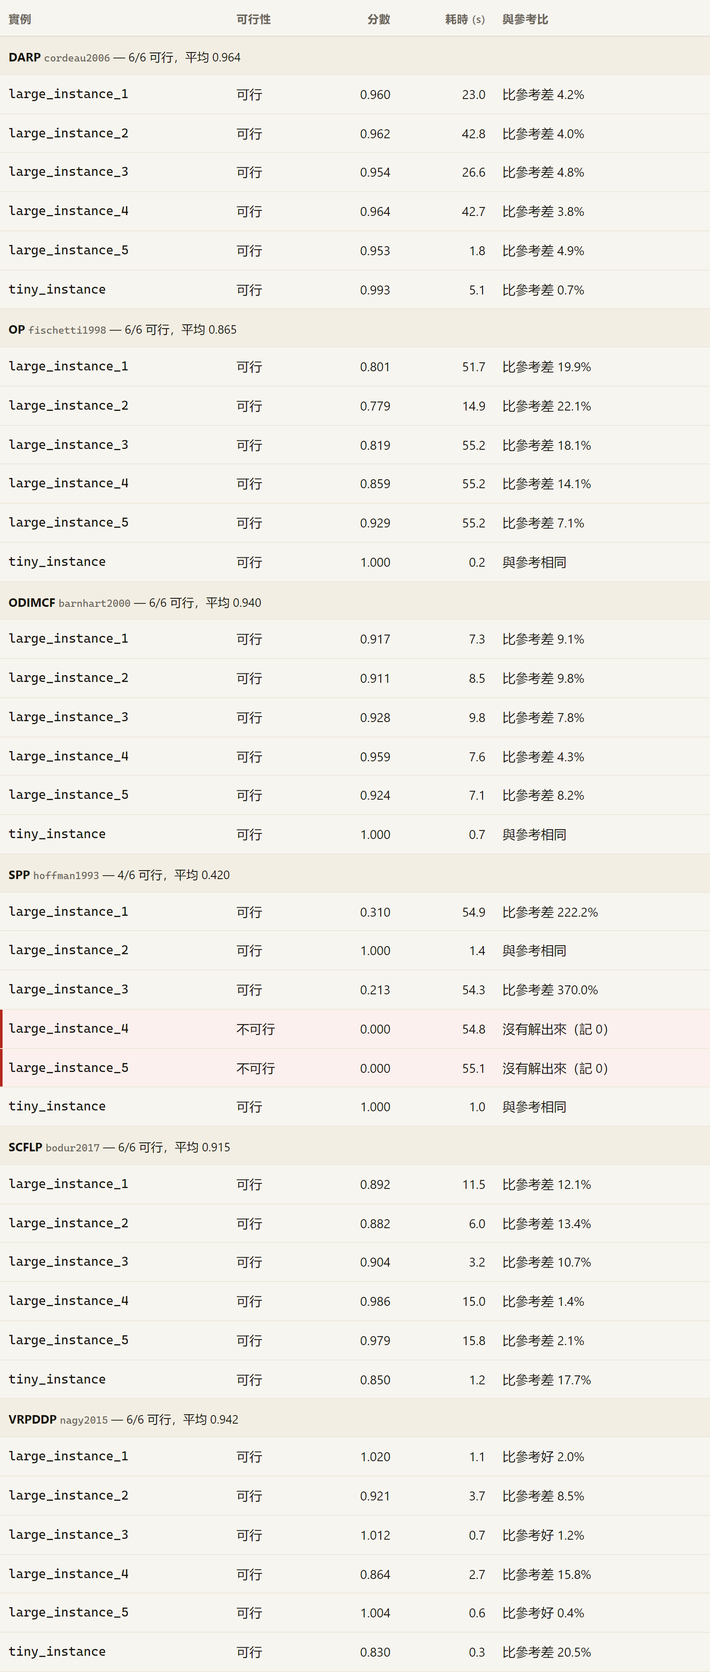
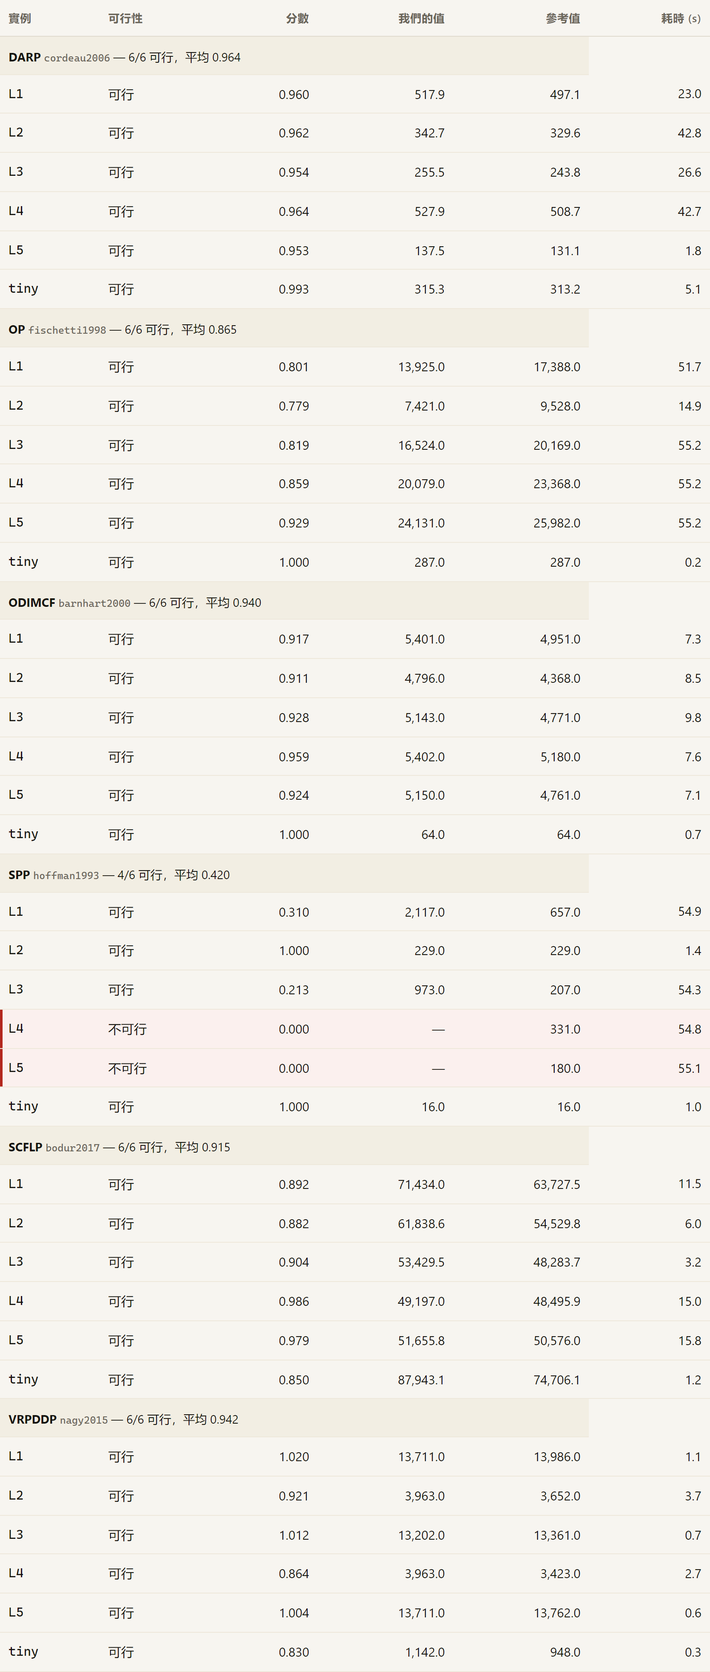
report: headline is the score, table shows raw objective values, cite the solve log
- hero: 0.841 with an 估算 tag next to it, 34/36 as the secondary fact
- chart: score bars against the 1.0 reference, slowest run beside it, * = hit the 55 s soft stop
- table: our value and the reference value are printed, so any reader can recompute the score
- docs/logs/hoffman-large_instance_4.log: the solver's own line for the two unsolved instances

diff --git a/site/index.html b/site/index.html
@@ -26,6 +26,8 @@
   .statline { display: grid; grid-template-columns: 210px 1fr; gap: 32px; align-items: start; margin-top: 24px; }
   .stat { font-size: 46px; line-height: 1.1; font-weight: 600; letter-spacing: -.02em; }
   .stat small { display: block; font-size: 14px; font-weight: 400; color: var(--muted); letter-spacing: 0; margin-top: 8px; }
+  .stat .tag { display: inline-block; font-size: 12px; font-weight: 500; color: #8a5a12;
+                background: #fbf0d8; border-radius: 3px; padding: 1px 6px; vertical-align: 12px; margin-left: 8px; }
   .ruler { background: var(--card); border: 1px solid var(--line); border-radius: 6px; padding: 16px 20px 6px; }
   .ruler svg { width: 100%; height: auto; display: block; }
   .ruler .cap { font-size: 13px; color: var(--muted); margin: 6px 0 8px; }
@@ -80,16 +82,16 @@
 
   <section class="hero">
     <div class="ruler">
-      <svg viewBox="0 0 706 222" role="img" aria-label="每題最慢一次實例的牆鐘，虛線是自設的 55 秒停止點"><line x1="630" y1="12" x2="630" y2="192" stroke="#b8b2a3" stroke-width="2"/><line x1="590.0" y1="12" x2="590.0" y2="192" stroke="#3a3730" stroke-width="1.5" stroke-dasharray="4 4"/><text x="630" y="208" text-anchor="middle" font-size="13" fill="#6b6659">60 s</text><text x="590.0" y="208" text-anchor="middle" font-size="12" fill="#3a3730">55 s</text><text x="646" y="12" font-size="11" fill="#6b6659" text-anchor="end">慢</text><text x="692" y="12" font-size="11" fill="#6b6659" text-anchor="end">平均分</text><text x="138" y="34" text-anchor="end" font-size="15" fill="#16150f">DARP</text><rect x="150" y="20" width="480" height="18" fill="#eae5d8" rx="3"/><rect x="150" y="20" width="342.8" height="18" fill="#3a3730" rx="3"/><text x="646" y="34" font-size="13" fill="#6b6659" text-anchor="end">42.8s</text><text x="692" y="34" font-size="13" fill="#16150f" text-anchor="end">0.96</text><text x="138" y="62" text-anchor="end" font-size="15" fill="#16150f">OP</text><rect x="150" y="48" width="480" height="18" fill="#eae5d8" rx="3"/><rect x="150" y="48" width="441.7" height="18" fill="#3a3730" rx="3"/><text x="646" y="62" font-size="13" fill="#6b6659" text-anchor="end">55.2s</text><text x="692" y="62" font-size="13" fill="#16150f" text-anchor="end">0.86</text><text x="138" y="90" text-anchor="end" font-size="15" fill="#16150f">ODIMCF</text><rect x="150" y="76" width="480" height="18" fill="#eae5d8" rx="3"/><rect x="150" y="76" width="78.5" height="18" fill="#3a3730" rx="3"/><text x="646" y="90" font-size="13" fill="#6b6659" text-anchor="end">9.8s</text><text x="692" y="90" font-size="13" fill="#16150f" text-anchor="end">0.94</text><text x="138" y="118" text-anchor="end" font-size="15" fill="#16150f">SPP</text><rect x="150" y="104" width="480" height="18" fill="#eae5d8" rx="3"/><rect x="150" y="104" width="440.6" height="18" fill="#b3271e" rx="3"/><text x="646" y="118" font-size="13" fill="#6b6659" text-anchor="end">55.1s</text><text x="692" y="118" font-size="13" fill="#16150f" text-anchor="end">0.42</text><text x="138" y="146" text-anchor="end" font-size="15" fill="#16150f">SCFLP</text><rect x="150" y="132" width="480" height="18" fill="#eae5d8" rx="3"/><rect x="150" y="132" width="126.7" height="18" fill="#3a3730" rx="3"/><text x="646" y="146" font-size="13" fill="#6b6659" text-anchor="end">15.8s</text><text x="692" y="146" font-size="13" fill="#16150f" text-anchor="end">0.92</text><text x="138" y="174" text-anchor="end" font-size="15" fill="#16150f">VRPDDP</text><rect x="150" y="160" width="480" height="18" fill="#eae5d8" rx="3"/><rect x="150" y="160" width="29.3" height="18" fill="#3a3730" rx="3"/><text x="646" y="174" font-size="13" fill="#6b6659" text-anchor="end">3.7s</text><text x="692" y="174" font-size="13" fill="#16150f" text-anchor="end">0.94</text></svg>
-      <p class="cap">橫條＝那一題最慢一次的牆鐘；深色虛線是我們自設的 55 秒停止點（留 5 秒寫答案）；紅條＝這一題有實例沒解出來。條長不代表解好壞，右邊那列才是平均分。</p>
+      <svg viewBox="0 0 666 222" role="img" aria-label="每題平均分（0 到 1.2，1.0 是參考），右列是最慢一次的牆鐘"><line x1="500.0" y1="12" x2="500.0" y2="192" stroke="#3a3730" stroke-width="1.5" stroke-dasharray="4 4"/><line x1="150" y1="12" x2="150" y2="192" stroke="#d8d2c4" stroke-width="1"/><text x="138" y="34" text-anchor="end" font-size="15" fill="#16150f">DARP</text><rect x="150" y="20" width="420" height="18" fill="#eae5d8" rx="3"/><rect x="150" y="20" width="337.5" height="18" fill="#3a3730" rx="3"/><text x="582" y="34" font-size="13" fill="#16150f">0.96</text><text x="620" y="34" font-size="12" fill="#6b6659">43s</text><text x="138" y="62" text-anchor="end" font-size="15" fill="#16150f">OP</text><rect x="150" y="48" width="420" height="18" fill="#eae5d8" rx="3"/><rect x="150" y="48" width="302.6" height="18" fill="#3a3730" rx="3"/><text x="582" y="62" font-size="13" fill="#16150f">0.86</text><text x="620" y="62" font-size="12" fill="#3a3730" font-weight="600">55s*</text><text x="138" y="90" text-anchor="end" font-size="15" fill="#16150f">ODIMCF</text><rect x="150" y="76" width="420" height="18" fill="#eae5d8" rx="3"/><rect x="150" y="76" width="328.9" height="18" fill="#3a3730" rx="3"/><text x="582" y="90" font-size="13" fill="#16150f">0.94</text><text x="620" y="90" font-size="12" fill="#6b6659">10s</text><text x="138" y="118" text-anchor="end" font-size="15" fill="#16150f">SPP</text><rect x="150" y="104" width="420" height="18" fill="#eae5d8" rx="3"/><rect x="150" y="104" width="147.2" height="18" fill="#b3271e" rx="3"/><text x="582" y="118" font-size="13" fill="#16150f">0.42</text><text x="620" y="118" font-size="12" fill="#3a3730" font-weight="600">55s*</text><text x="138" y="146" text-anchor="end" font-size="15" fill="#16150f">SCFLP</text><rect x="150" y="132" width="420" height="18" fill="#eae5d8" rx="3"/><rect x="150" y="132" width="320.4" height="18" fill="#3a3730" rx="3"/><text x="582" y="146" font-size="13" fill="#16150f">0.92</text><text x="620" y="146" font-size="12" fill="#6b6659">16s</text><text x="138" y="174" text-anchor="end" font-size="15" fill="#16150f">VRPDDP</text><rect x="150" y="160" width="420" height="18" fill="#eae5d8" rx="3"/><rect x="150" y="160" width="329.6" height="18" fill="#3a3730" rx="3"/><text x="582" y="174" font-size="13" fill="#16150f">0.94</text><text x="620" y="174" font-size="12" fill="#6b6659">4s</text><text x="582" y="12" font-size="11" fill="#6b6659">平均分</text><text x="620" y="12" font-size="11" fill="#6b6659">最慢</text><text x="500.0" y="210" text-anchor="middle" font-size="12" fill="#3a3730">1.0 參考</text><text x="570" y="210" text-anchor="end" font-size="11" fill="#6b6659">1.2</text></svg>
+      <p class="cap">橫條＝那一題的平均分，虛線是 1.0（與參考相同）。右列是最慢一次的牆鐘，打 * 的表示撞到我們自設的 55 秒軟停止（留 5 秒寫答案）。紅條＝這一題有實例沒解出來。</p>
     </div>
     <div class="statline">
-      <p class="stat">34/36
-        <small>個實例拿到可行解；平均分 0.841（參考＝1.000）</small>
+      <p class="stat">0.841<span class="tag">估算</span>
+        <small>六題平均分（參考＝1.000）；34/36 個實例拿到可行解</small>
       </p>
       <div>
-        <p>36 個實例裡 34 個拿到可行解；集合劃分有 2 個實例在 60 秒內找不到覆蓋。 最慢的一次用了 55.2 秒，預算 60 秒；
-          2 個實例沒有拿到可行覆蓋。</p>
+        <p>36 個實例裡 34 個拿到可行解；集合劃分有 2 個實例在 60 秒內找不到覆蓋。 最慢的一次 55 秒上下就停手寫答案（預算 60 秒，
+         我們自留 5 秒）。</p>
         <p class="note">分數照官方評分頁算：最小化題是「參考 ÷ 我們」，最大化題（本場的定向越野）反過來；與參考相同得 1.000，比參考好最多到 2.000。這裡的參考值是<b>基準資料集</b>裡的 Gurobi 目標，不是比賽後台凍結的參考值，所以它是估計，不是成績。</p>
       </div>
     </div>
@@ -99,9 +101,10 @@
   <p class="how">每題的平均分＝該題所有實例分數的平均（不可行記 0）；總平均＝六題平均分再平均一次，
      所以每題等權，不因實例多而多重。比分數欄旁邊那列是「我們的值與參考值的差」，負號＝比參考好。</p>
   <table>
-    <thead><tr><th>實例</th><th>可行性</th><th class="num">分數</th><th class="num">耗時 (s)</th><th>與參考比</th></tr></thead>
+    <thead><tr><th>實例</th><th>可行性</th><th class="num">分數</th>
+      <th class="num">我們的值</th><th class="num">參考值</th><th class="num">耗時 (s)</th></tr></thead>
     <tbody>
-      <tr class="group"><td colspan="5"><b>DARP</b> <span class="slug mono">cordeau2006</span> — 6/6 可行，平均 0.964</td></tr><tr><td class="mono">large_instance_1</td><td>可行</td><td class="num">0.960</td><td class="num">23.0</td><td>比參考差 4.2%</td></tr><tr><td class="mono">large_instance_2</td><td>可行</td><td class="num">0.962</td><td class="num">42.8</td><td>比參考差 4.0%</td></tr><tr><td class="mono">large_instance_3</td><td>可行</td><td class="num">0.954</td><td class="num">26.6</td><td>比參考差 4.8%</td></tr><tr><td class="mono">large_instance_4</td><td>可行</td><td class="num">0.964</td><td class="num">42.7</td><td>比參考差 3.8%</td></tr><tr><td class="mono">large_instance_5</td><td>可行</td><td class="num">0.953</td><td class="num">1.8</td><td>比參考差 4.9%</td></tr><tr><td class="mono">tiny_instance</td><td>可行</td><td class="num">0.993</td><td class="num">5.1</td><td>比參考差 0.7%</td></tr><tr class="group"><td colspan="5"><b>OP</b> <span class="slug mono">fischetti1998</span> — 6/6 可行，平均 0.865</td></tr><tr><td class="mono">large_instance_1</td><td>可行</td><td class="num">0.801</td><td class="num">51.7</td><td>比參考差 19.9%</td></tr><tr><td class="mono">large_instance_2</td><td>可行</td><td class="num">0.779</td><td class="num">14.9</td><td>比參考差 22.1%</td></tr><tr><td class="mono">large_instance_3</td><td>可行</td><td class="num">0.819</td><td class="num">55.2</td><td>比參考差 18.1%</td></tr><tr><td class="mono">large_instance_4</td><td>可行</td><td class="num">0.859</td><td class="num">55.2</td><td>比參考差 14.1%</td></tr><tr><td class="mono">large_instance_5</td><td>可行</td><td class="num">0.929</td><td class="num">55.2</td><td>比參考差 7.1%</td></tr><tr><td class="mono">tiny_instance</td><td>可行</td><td class="num">1.000</td><td class="num">0.2</td><td>與參考相同</td></tr><tr class="group"><td colspan="5"><b>ODIMCF</b> <span class="slug mono">barnhart2000</span> — 6/6 可行，平均 0.940</td></tr><tr><td class="mono">large_instance_1</td><td>可行</td><td class="num">0.917</td><td class="num">7.3</td><td>比參考差 9.1%</td></tr><tr><td class="mono">large_instance_2</td><td>可行</td><td class="num">0.911</td><td class="num">8.5</td><td>比參考差 9.8%</td></tr><tr><td class="mono">large_instance_3</td><td>可行</td><td class="num">0.928</td><td class="num">9.8</td><td>比參考差 7.8%</td></tr><tr><td class="mono">large_instance_4</td><td>可行</td><td class="num">0.959</td><td class="num">7.6</td><td>比參考差 4.3%</td></tr><tr><td class="mono">large_instance_5</td><td>可行</td><td class="num">0.924</td><td class="num">7.1</td><td>比參考差 8.2%</td></tr><tr><td class="mono">tiny_instance</td><td>可行</td><td class="num">1.000</td><td class="num">0.7</td><td>與參考相同</td></tr><tr class="group"><td colspan="5"><b>SPP</b> <span class="slug mono">hoffman1993</span> — 4/6 可行，平均 0.420</td></tr><tr><td class="mono">large_instance_1</td><td>可行</td><td class="num">0.310</td><td class="num">54.9</td><td>是參考的 0.3 倍差</td></tr><tr><td class="mono">large_instance_2</td><td>可行</td><td class="num">1.000</td><td class="num">1.4</td><td>與參考相同</td></tr><tr><td class="mono">large_instance_3</td><td>可行</td><td class="num">0.213</td><td class="num">54.3</td><td>是參考的 0.2 倍差</td></tr><tr class="bad"><td class="mono">large_instance_4</td><td>不可行</td><td class="num">0.000</td><td class="num">54.8</td><td>沒有解出來（記 0）</td></tr><tr class="bad"><td class="mono">large_instance_5</td><td>不可行</td><td class="num">0.000</td><td class="num">55.1</td><td>沒有解出來（記 0）</td></tr><tr><td class="mono">tiny_instance</td><td>可行</td><td class="num">1.000</td><td class="num">1.0</td><td>與參考相同</td></tr><tr class="group"><td colspan="5"><b>SCFLP</b> <span class="slug mono">bodur2017</span> — 6/6 可行，平均 0.915</td></tr><tr><td class="mono">large_instance_1</td><td>可行</td><td class="num">0.892</td><td class="num">11.5</td><td>比參考差 12.1%</td></tr><tr><td class="mono">large_instance_2</td><td>可行</td><td class="num">0.882</td><td class="num">6.0</td><td>比參考差 13.4%</td></tr><tr><td class="mono">large_instance_3</td><td>可行</td><td class="num">0.904</td><td class="num">3.2</td><td>比參考差 10.7%</td></tr><tr><td class="mono">large_instance_4</td><td>可行</td><td class="num">0.986</td><td class="num">15.0</td><td>比參考差 1.4%</td></tr><tr><td class="mono">large_instance_5</td><td>可行</td><td class="num">0.979</td><td class="num">15.8</td><td>比參考差 2.1%</td></tr><tr><td class="mono">tiny_instance</td><td>可行</td><td class="num">0.850</td><td class="num">1.2</td><td>比參考差 17.7%</td></tr><tr class="group"><td colspan="5"><b>VRPDDP</b> <span class="slug mono">nagy2015</span> — 6/6 可行，平均 0.942</td></tr><tr><td class="mono">large_instance_1</td><td>可行</td><td class="num">1.020</td><td class="num">1.1</td><td>比參考好 2.0%</td></tr><tr><td class="mono">large_instance_2</td><td>可行</td><td class="num">0.921</td><td class="num">3.7</td><td>比參考差 8.5%</td></tr><tr><td class="mono">large_instance_3</td><td>可行</td><td class="num">1.012</td><td class="num">0.7</td><td>比參考好 1.2%</td></tr><tr><td class="mono">large_instance_4</td><td>可行</td><td class="num">0.864</td><td class="num">2.7</td><td>比參考差 15.8%</td></tr><tr><td class="mono">large_instance_5</td><td>可行</td><td class="num">1.004</td><td class="num">0.6</td><td>比參考好 0.4%</td></tr><tr><td class="mono">tiny_instance</td><td>可行</td><td class="num">0.830</td><td class="num">0.3</td><td>比參考差 20.5%</td></tr>
+      <tr class="group"><td colspan="5"><b>DARP</b> <span class="slug mono">cordeau2006</span> — 6/6 可行，平均 0.964</td></tr><tr><td class="mono">L1</td><td>可行</td><td class="num">0.960</td><td class="num">517.9</td><td class="num">497.1</td><td class="num">23.0</td></tr><tr><td class="mono">L2</td><td>可行</td><td class="num">0.962</td><td class="num">342.7</td><td class="num">329.6</td><td class="num">42.8</td></tr><tr><td class="mono">L3</td><td>可行</td><td class="num">0.954</td><td class="num">255.5</td><td class="num">243.8</td><td class="num">26.6</td></tr><tr><td class="mono">L4</td><td>可行</td><td class="num">0.964</td><td class="num">527.9</td><td class="num">508.7</td><td class="num">42.7</td></tr><tr><td class="mono">L5</td><td>可行</td><td class="num">0.953</td><td class="num">137.5</td><td class="num">131.1</td><td class="num">1.8</td></tr><tr><td class="mono">tiny</td><td>可行</td><td class="num">0.993</td><td class="num">315.3</td><td class="num">313.2</td><td class="num">5.1</td></tr><tr class="group"><td colspan="5"><b>OP</b> <span class="slug mono">fischetti1998</span> — 6/6 可行，平均 0.865</td></tr><tr><td class="mono">L1</td><td>可行</td><td class="num">0.801</td><td class="num">13,925.0</td><td class="num">17,388.0</td><td class="num">51.7</td></tr><tr><td class="mono">L2</td><td>可行</td><td class="num">0.779</td><td class="num">7,421.0</td><td class="num">9,528.0</td><td class="num">14.9</td></tr><tr><td class="mono">L3</td><td>可行</td><td class="num">0.819</td><td class="num">16,524.0</td><td class="num">20,169.0</td><td class="num">55.2</td></tr><tr><td class="mono">L4</td><td>可行</td><td class="num">0.859</td><td class="num">20,079.0</td><td class="num">23,368.0</td><td class="num">55.2</td></tr><tr><td class="mono">L5</td><td>可行</td><td class="num">0.929</td><td class="num">24,131.0</td><td class="num">25,982.0</td><td class="num">55.2</td></tr><tr><td class="mono">tiny</td><td>可行</td><td class="num">1.000</td><td class="num">287.0</td><td class="num">287.0</td><td class="num">0.2</td></tr><tr class="group"><td colspan="5"><b>ODIMCF</b> <span class="slug mono">barnhart2000</span> — 6/6 可行，平均 0.940</td></tr><tr><td class="mono">L1</td><td>可行</td><td class="num">0.917</td><td class="num">5,401.0</td><td class="num">4,951.0</td><td class="num">7.3</td></tr><tr><td class="mono">L2</td><td>可行</td><td class="num">0.911</td><td class="num">4,796.0</td><td class="num">4,368.0</td><td class="num">8.5</td></tr><tr><td class="mono">L3</td><td>可行</td><td class="num">0.928</td><td class="num">5,143.0</td><td class="num">4,771.0</td><td class="num">9.8</td></tr><tr><td class="mono">L4</td><td>可行</td><td class="num">0.959</td><td class="num">5,402.0</td><td class="num">5,180.0</td><td class="num">7.6</td></tr><tr><td class="mono">L5</td><td>可行</td><td class="num">0.924</td><td class="num">5,150.0</td><td class="num">4,761.0</td><td class="num">7.1</td></tr><tr><td class="mono">tiny</td><td>可行</td><td class="num">1.000</td><td class="num">64.0</td><td class="num">64.0</td><td class="num">0.7</td></tr><tr class="group"><td colspan="5"><b>SPP</b> <span class="slug mono">hoffman1993</span> — 4/6 可行，平均 0.420</td></tr><tr><td class="mono">L1</td><td>可行</td><td class="num">0.310</td><td class="num">2,117.0</td><td class="num">657.0</td><td class="num">54.9</td></tr><tr><td class="mono">L2</td><td>可行</td><td class="num">1.000</td><td class="num">229.0</td><td class="num">229.0</td><td class="num">1.4</td></tr><tr><td class="mono">L3</td><td>可行</td><td class="num">0.213</td><td class="num">973.0</td><td class="num">207.0</td><td class="num">54.3</td></tr><tr class="bad"><td class="mono">L4</td><td>不可行</td><td class="num">0.000</td><td class="num">—</td><td class="num">331.0</td><td class="num">54.8</td></tr><tr class="bad"><td class="mono">L5</td><td>不可行</td><td class="num">0.000</td><td class="num">—</td><td class="num">180.0</td><td class="num">55.1</td></tr><tr><td class="mono">tiny</td><td>可行</td><td class="num">1.000</td><td class="num">16.0</td><td class="num">16.0</td><td class="num">1.0</td></tr><tr class="group"><td colspan="5"><b>SCFLP</b> <span class="slug mono">bodur2017</span> — 6/6 可行，平均 0.915</td></tr><tr><td class="mono">L1</td><td>可行</td><td class="num">0.892</td><td class="num">71,434.0</td><td class="num">63,727.5</td><td class="num">11.5</td></tr><tr><td class="mono">L2</td><td>可行</td><td class="num">0.882</td><td class="num">61,838.6</td><td class="num">54,529.8</td><td class="num">6.0</td></tr><tr><td class="mono">L3</td><td>可行</td><td class="num">0.904</td><td class="num">53,429.5</td><td class="num">48,283.7</td><td class="num">3.2</td></tr><tr><td class="mono">L4</td><td>可行</td><td class="num">0.986</td><td class="num">49,197.0</td><td class="num">48,495.9</td><td class="num">15.0</td></tr><tr><td class="mono">L5</td><td>可行</td><td class="num">0.979</td><td class="num">51,655.8</td><td class="num">50,576.0</td><td class="num">15.8</td></tr><tr><td class="mono">tiny</td><td>可行</td><td class="num">0.850</td><td class="num">87,943.1</td><td class="num">74,706.1</td><td class="num">1.2</td></tr><tr class="group"><td colspan="5"><b>VRPDDP</b> <span class="slug mono">nagy2015</span> — 6/6 可行，平均 0.942</td></tr><tr><td class="mono">L1</td><td>可行</td><td class="num">1.020</td><td class="num">13,711.0</td><td class="num">13,986.0</td><td class="num">1.1</td></tr><tr><td class="mono">L2</td><td>可行</td><td class="num">0.921</td><td class="num">3,963.0</td><td class="num">3,652.0</td><td class="num">3.7</td></tr><tr><td class="mono">L3</td><td>可行</td><td class="num">1.012</td><td class="num">13,202.0</td><td class="num">13,361.0</td><td class="num">0.7</td></tr><tr><td class="mono">L4</td><td>可行</td><td class="num">0.864</td><td class="num">3,963.0</td><td class="num">3,423.0</td><td class="num">2.7</td></tr><tr><td class="mono">L5</td><td>可行</td><td class="num">1.004</td><td class="num">13,711.0</td><td class="num">13,762.0</td><td class="num">0.6</td></tr><tr><td class="mono">tiny</td><td>可行</td><td class="num">0.830</td><td class="num">1,142.0</td><td class="num">948.0</td><td class="num">0.3</td></tr>
     </tbody>
   </table>
 
@@ -117,7 +120,7 @@
         <p class="why"><strong>為什麼：</strong>時間窗讓「先排誰」比「走多短」更關鍵，所以要真的排一遍時鐘。</p>
         <dl class="mini">
           <div><dt>平均分</dt><dd class="num">0.964</dd></div>
-          <div><dt>最慢一次</dt><dd class="num">42.9s</dd></div>
+          <div><dt>最慢一次</dt><dd class="num">42.8s</dd></div>
         </dl>
       </article>
       <article class="card">

diff --git a/scripts/build_site.py b/scripts/build_site.py
@@ -66,8 +66,8 @@ PROSE = {
     "conclusion": "36 個實例裡 34 個拿到可行解；集合劃分有 2 個實例在 60 秒內找不到覆蓋。",
     "lede": "六個沒見過的運籌題，同一條生產線：讀 schema、選構造、自己判可行、自己決定什麼時候停。"
             "判分用官方檢查器。",
-    "ruler_note": "橫條＝那一題最慢一次的牆鐘；深色虛線是我們自設的 55 秒停止點（留 5 秒寫答案）；"
-                  "紅條＝這一題有實例沒解出來。條長不代表解好壞，右邊那列才是平均分。",
+    "ruler_note": "橫條＝那一題的平均分，虛線是 1.0（與參考相同）。右列是最慢一次的牆鐘，"
+                  "打 * 的表示撞到我們自設的 55 秒軟停止（留 5 秒寫答案）。紅條＝這一題有實例沒解出來。",
     "score_note": "分數照官方評分頁算：最小化題是「參考 ÷ 我們」，最大化題（本場的定向越野）反過來；"
                   "與參考相同得 1.000，比參考好最多到 2.000。這裡的參考值是<b>基準資料集</b>裡的 Gurobi 目標，"
                   "不是比賽後台凍結的參考值，所以它是估計，不是成績。",
@@ -102,43 +102,42 @@ def build() -> str:
     mean_score = data["mean_score"]
     max_wall = max(r["wall_s"] for r in rows) if rows else 0.0
 
-    # ---- the 60 s ruler
-    bar_h, gap, left, width = 18, 10, 150, 480
-    top = 20
+    # ---- the chart: score bars, with the slowest run beside them
+    bar_h, gap, left, width, top = 18, 10, 150, 420, 20
     total_h = top + len(order) * (bar_h + gap) + 34
-    ruler = [f'<svg viewBox="0 0 {left + width + 76} {total_h}" '
-             f'role="img" aria-label="每題最慢一次實例的牆鐘，虛線是自設的 55 秒停止點">']
-    stop = left + width * (55.0 / 60.0)
-    ruler.append(f'<line x1="{left + width}" y1="{top - 8}" x2="{left + width}" '
-                 f'y2="{top + len(order)*(bar_h+gap) + 4}" stroke="#b8b2a3" stroke-width="2"/>')
-    ruler.append(f'<line x1="{stop}" y1="{top - 8}" x2="{stop}" y2="{top + len(order)*(bar_h+gap) + 4}" '
+    scale = 1.2
+    chart = [f'<svg viewBox="0 0 {left + width + 96} {total_h}" '
+             f'role="img" aria-label="每題平均分（0 到 1.2，1.0 是參考），右列是最慢一次的牆鐘">']
+    ref_x = left + width * (1.0 / scale)
+    chart.append(f'<line x1="{ref_x}" y1="{top - 8}" x2="{ref_x}" y2="{top + len(order)*(bar_h+gap) + 4}" '
                  f'stroke="#3a3730" stroke-width="1.5" stroke-dasharray="4 4"/>')
-    ruler.append(f'<text x="{left + width}" y="{top + len(order)*(bar_h+gap)+20}" text-anchor="middle" '
-                 f'font-size="13" fill="#6b6659">60 s</text>')
-    ruler.append(f'<text x="{stop}" y="{top + len(order)*(bar_h+gap)+20}" text-anchor="middle" '
-                 f'font-size="12" fill="#3a3730">55 s</text>')
-    ruler.append(f'<text x="{left + width + 16}" y="{top - 8}" font-size="11" fill="#6b6659" '
-                 f'text-anchor="end">慢</text>')
-    ruler.append(f'<text x="{left + width + 62}" y="{top - 8}" font-size="11" fill="#6b6659" '
-                 f'text-anchor="end">平均分</text>')
-
+    chart.append(f'<line x1="{left}" y1="{top - 8}" x2="{left}" y2="{top + len(order)*(bar_h+gap) + 4}" '
+                 f'stroke="#d8d2c4" stroke-width="1"/>')
     for i, slug in enumerate(order):
         y = top + i * (bar_h + gap)
+        p = problems[slug]
         slowest = max((r["wall_s"] for r in rows if r["slug"] == slug), default=0.0)
-        length = min(1.0, slowest / 60.0) * width
-        score = problems[slug]["mean_score"]
-        incomplete = problems[slug]["feasible"] < problems[slug]["instances"]
+        incomplete = p["feasible"] < p["instances"]
         colour = "#b3271e" if incomplete else "#3a3730"
-        ruler.append(f'<text x="{left - 12}" y="{y + bar_h - 4}" text-anchor="end" font-size="15" fill="#16150f">'
-                     f'{esc(PROBLEMS[slug]["short"])}</text>')
-        ruler.append(f'<rect x="{left}" y="{y}" width="{width}" height="{bar_h}" fill="#eae5d8" rx="3"/>')
-        ruler.append(f'<rect x="{left}" y="{y}" width="{max(2, length):.1f}" height="{bar_h}" fill="{colour}" rx="3"/>')
-        ruler.append(f'<text x="{left + width + 16}" y="{y + bar_h - 4}" font-size="13" fill="#6b6659" '
-                     f'text-anchor="end">{slowest:.1f}s</text>')
-        ruler.append(f'<text x="{left + width + 62}" y="{y + bar_h - 4}" font-size="13" fill="#16150f" '
-                     f'text-anchor="end">{score:.2f}</text>')
-    ruler.append("</svg>")
-    ruler_svg = "".join(ruler)
+        length = max(2.0, min(scale, p["mean_score"]) / scale * width)
+        chart.append(f'<text x="{left - 12}" y="{y + bar_h - 4}" text-anchor="end" font-size="15" '
+                     f'fill="#16150f">{esc(PROBLEMS[slug]["short"])}</text>')
+        chart.append(f'<rect x="{left}" y="{y}" width="{width}" height="{bar_h}" fill="#eae5d8" rx="3"/>')
+        chart.append(f'<rect x="{left}" y="{y}" width="{length:.1f}" height="{bar_h}" fill="{colour}" rx="3"/>')
+        chart.append(f'<text x="{left + width + 12}" y="{y + bar_h - 4}" font-size="13" fill="#16150f">'
+                     f'{p["mean_score"]:.2f}</text>')
+        capped = slowest >= 54.0
+        chart.append(f'<text x="{left + width + 50}" y="{y + bar_h - 4}" font-size="12" '
+                     f'fill="{"#3a3730" if capped else "#6b6659"}"'
+                     f'{" font-weight=\"600\"" if capped else ""}>{slowest:.0f}s{"*" if capped else ""}</text>')
+    chart.append(f'<text x="{left + width + 12}" y="{top - 8}" font-size="11" fill="#6b6659">平均分</text>')
+    chart.append(f'<text x="{left + width + 50}" y="{top - 8}" font-size="11" fill="#6b6659">最慢</text>')
+    chart.append(f'<text x="{ref_x}" y="{top + len(order)*(bar_h+gap)+22}" text-anchor="middle" '
+                 f'font-size="12" fill="#3a3730">1.0 參考</text>')
+    chart.append(f'<text x="{left + width}" y="{top + len(order)*(bar_h+gap)+22}" text-anchor="end" '
+                 f'font-size="11" fill="#6b6659">1.2</text>')
+    chart.append("</svg>")
+    ruler_svg = "".join(chart)
 
     # ---- table
     table_rows = []
@@ -152,26 +151,15 @@ def build() -> str:
         for r in [x for x in rows if x["slug"] == slug]:
             bad = not r["feasible"]
             cls = ' class="bad"' if bad else ""
-            if bad:
-                note = "沒有解出來（記 0）"
-            else:
-                delta = (r["objective"] - r["reference_objective"]) / r["reference_objective"] * 100.0
-                if r["direction"] == "maximize":
-                    delta = -delta
-                ratio = (r["reference_objective"] / r["objective"]) if r["direction"] == "minimize" else (r["objective"] / r["reference_objective"])
-                if abs(delta) < 0.05:
-                    note = "與參考相同"
-                elif delta < 0:
-                    note = f"比參考好 {abs(delta):.1f}%"
-                elif delta > 100:
-                    note = f"是參考的 {ratio:.1f} 倍差"
-                else:
-                    note = f"比參考差 {delta:.1f}%"
+            ours = "—" if bad else fmt(r["objective"], 1)
+            ref = fmt(r["reference_objective"], 1)
+            name = r["instance"].replace("large_instance_", "L").replace("_instance", "")
             table_rows.append(
-                f'<tr{cls}><td class="mono">{esc(r["instance"])}</td>'
+                f'<tr{cls}><td class="mono">{esc(name)}</td>'
                 f'<td>{"可行" if r["feasible"] else "不可行"}</td>'
                 f'<td class="num">{fmt(r["score"])}</td>'
-                f'<td class="num">{r["wall_s"]:.1f}</td><td>{note}</td></tr>'
+                f'<td class="num">{ours}</td><td class="num">{ref}</td>'
+                f'<td class="num">{r["wall_s"]:.1f}</td></tr>'
             )
 
     # ---- per problem cards
@@ -231,6 +219,8 @@ def build() -> str:
   .statline {{ display: grid; grid-template-columns: 210px 1fr; gap: 32px; align-items: start; margin-top: 24px; }}
   .stat {{ font-size: 46px; line-height: 1.1; font-weight: 600; letter-spacing: -.02em; }}
   .stat small {{ display: block; font-size: 14px; font-weight: 400; color: var(--muted); letter-spacing: 0; margin-top: 8px; }}
+  .stat .tag {{ display: inline-block; font-size: 12px; font-weight: 500; color: #8a5a12;
+                background: #fbf0d8; border-radius: 3px; padding: 1px 6px; vertical-align: 12px; margin-left: 8px; }}
   .ruler {{ background: var(--card); border: 1px solid var(--line); border-radius: 6px; padding: 16px 20px 6px; }}
   .ruler svg {{ width: 100%; height: auto; display: block; }}
   .ruler .cap {{ font-size: 13px; color: var(--muted); margin: 6px 0 8px; }}
@@ -289,12 +279,12 @@ def build() -> str:
       <p class="cap">{esc(PROSE["ruler_note"])}</p>
     </div>
     <div class="statline">
-      <p class="stat">{feasible_rows}/{total_rows}
-        <small>個實例拿到可行解；平均分 {mean_score:.3f}（參考＝1.000）</small>
+      <p class="stat">{mean_score:.3f}<span class="tag">估算</span>
+        <small>六題平均分（參考＝1.000）；{feasible_rows}/{total_rows} 個實例拿到可行解</small>
       </p>
       <div>
-        <p>{esc(PROSE["conclusion"])} 最慢的一次用了 {max_wall:.1f} 秒，預算 60 秒；
-          {len(failed)} 個實例沒有拿到可行覆蓋。</p>
+        <p>{esc(PROSE["conclusion"])} 最慢的一次 55 秒上下就停手寫答案（預算 60 秒，
+         我們自留 5 秒）。</p>
         <p class="note">{PROSE["score_note"]}</p>
       </div>
     </div>
@@ -304,7 +294,8 @@ def build() -> str:
   <p class="how">每題的平均分＝該題所有實例分數的平均（不可行記 0）；總平均＝六題平均分再平均一次，
      所以每題等權，不因實例多而多重。比分數欄旁邊那列是「我們的值與參考值的差」，負號＝比參考好。</p>
   <table>
-    <thead><tr><th>實例</th><th>可行性</th><th class="num">分數</th><th class="num">耗時 (s)</th><th>與參考比</th></tr></thead>
+    <thead><tr><th>實例</th><th>可行性</th><th class="num">分數</th>
+      <th class="num">我們的值</th><th class="num">參考值</th><th class="num">耗時 (s)</th></tr></thead>
     <tbody>
       {''.join(table_rows)}
     </tbody>

diff --git a/scripts/write_proof.py b/scripts/write_proof.py
@@ -106,6 +106,13 @@ def main() -> int:
         for c in recorded:
             lines.append(f"- `{c['id']}`：{c['detail'][:300]}")
         lines.append("")
+    lines.append("## 3.5 失敗的證據")
+    lines.append("")
+    lines.append("`hoffman1993` 那兩個實例不是格式壞了，是 solver 在 60 秒內沒有找到覆蓋、"
+                 "寫出空的 `selected_rotations`。solver 自己的輸出留在 "
+                 "`docs/logs/hoffman-large_instance_4.log`：54.6 秒、"
+                 "最後一行 `hoffman: final 0 rotations, objective 0`。")
+    lines.append("")
     lines.append("## 4. 怎麼重跑")
     lines.append("")
     lines.append("```sh")

diff --git a/scripts/check_site.py b/scripts/check_site.py
@@ -59,8 +59,8 @@ def main() -> int:
             check(f"mean score {slug}", False, f'{p["mean_score"]:.3f}')
             break
 
-    # The 60 s ruler exists and its red line is not decorative.
-    check("ruler present", "60 s" in html and "aria-label" in html)
+    # The chart exists, is labelled for screen readers, and marks the 1.0 reference.
+    check("chart present", 'aria-label="每題平均分' in html and "1.0 參考" in html)
     check("no scroll container", "overflow-y: auto" not in html)
 
     failed = [c for c in checks if not c[1]]

diff --git a/scripts/merge_results.py b/scripts/merge_results.py
@@ -61,7 +61,7 @@ def main() -> int:
         p["max_wall_s"] = max(p["max_wall_s"], row["wall_s"])
     for p in problems.values():
         p["mean_score"] = round(p.pop("_sum") / max(1, p["instances"]), 4)
-        p["max_wall_s"] = round(p["max_wall_s"], 2)
+        # keep the raw value: rounding twice made the card and the table disagree
 
     # AC-03 (the checker rejected the solution) is a *result*, not a defect: an
     # instance the solver cannot solve scores 0, and that is what the competition

diff --git a/docs/04-PROOF.md b/docs/04-PROOF.md
@@ -89,6 +89,10 @@
 - `AC-03/hoffman1993/large_instance_4`：checker rejected: empty required decision witness field(s): selected_rotations
 - `AC-03/hoffman1993/large_instance_5`：checker rejected: empty required decision witness field(s): selected_rotations
 
+## 3.5 失敗的證據
+
+`hoffman1993` 那兩個實例不是格式壞了，是 solver 在 60 秒內沒有找到覆蓋、寫出空的 `selected_rotations`。solver 自己的輸出留在 `docs/logs/hoffman-large_instance_4.log`：54.6 秒、最後一行 `hoffman: final 0 rotations, objective 0`。
+
 ## 4. 怎麼重跑
 
 ```sh
